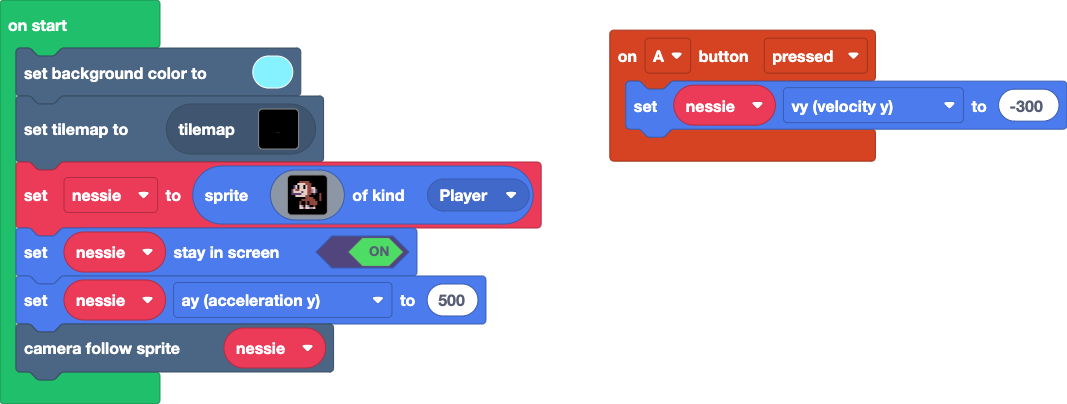
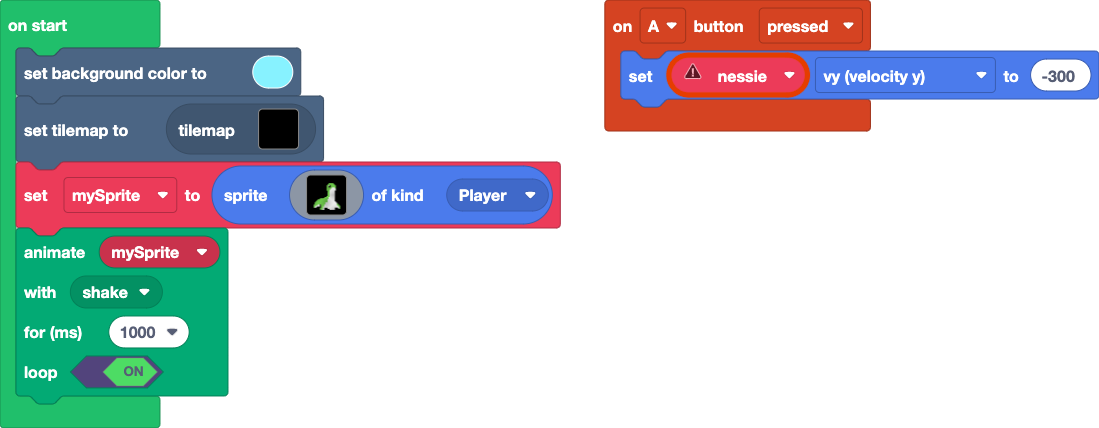
Update main.blocks, main.ts, tilemap.g.jres, tilemap.g.ts, images.g.jres, images.g.ts

diff --git a/tilemap.g.ts b/tilemap.g.ts
@@ -6,7 +6,7 @@ namespace myTiles {
     helpers._registerFactory("tilemap", function(name: string) {
         switch(helpers.stringTrim(name)) {
             case "level1":
[2 lines of base64/hex data omitted]
 ................
 ................
 ................
@@ -104,7 +104,6 @@ namespace myTiles {
 ................
 ................
 ................
-2222222222222222
 ................
 ................
 ................
@@ -167,7 +166,8 @@ namespace myTiles {
 ................
 ................
 ................
-`, [myTiles.transparency16,sprites.skillmap.islandTile1], TileScale.Sixteen);
+................
+`, [myTiles.transparency16], TileScale.Sixteen);
         }
         return null;
     })

diff --git a/images.g.ts b/images.g.ts
@@ -61,39 +61,6 @@ ddddddddddddddddddddbb111bddddddddddddddddddddddddddddddddddddd
 ddddddddddddddddddddddbbbdddddddddddddddddddddddddddddddddddddd
 ddddddddddddddddddddddddddddddddddddddddddddddddddddddddddddddd
 `;
-            case "image2":
-            case "myImage":return img`
-..............................
-..............................
-..............................
-................fffffff.......
-...............ff77777ff......
-..............ff7777777ff.....
-..............f771f77777f.....
-..............f77ff77777f.....
-..............f777771117f.....
-..............f777711111f.....
-..............f777111111f.....
-..............ff7711111ff.....
-...............f7711111f......
-...............f7711111f......
-...............f7711111f......
-..............ff7711111f......
-............fff77711111f......
-........fffff7777111111f......
-......fff77777777111111f......
-.....ff7777777771111111f......
-....ff77777777771111111ff.....
-...ff7777777777711111111ff....
-...f777777777711111111111ff...
-..ff7777777777111111111117ff..
-..f777711f77711111111111177ff.
-..f771111f777111111111111177f.
-..f711ffff771111111111111117f.
-..fffff.f7771fff1111111fff17f.
-........f7711f.fff11111f.ffff.
-........ffffff...fffffff......
-`;
             case ",xL(eOpO+":
             case "Nega Nessie":return img`
 ..............................
@@ -125,6 +92,39 @@ ddddddddddddddddddddddddddddddddddddddddddddddddddddddddddddddd
 ..f211ffff221111111111111112f.
 ..fffff.f2221fff1111111fff12f.
 ........f2211f.fff11111f.ffff.
+........ffffff...fffffff......
+`;
+            case "image2":
+            case "myImage":return img`
+..............................
+..............................
+..............................
+................fffffff.......
+...............ff77777ff......
+..............ff7777777ff.....
+..............f771f77777f.....
+..............f77ff77777f.....
+..............f777771117f.....
+..............f777711111f.....
+..............f777111111f.....
+..............ff7711111ff.....
+...............f7711111f......
+...............f7711111f......
+...............f7711111f......
+..............ff7711111f......
+............fff77711111f......
+........fffff7777111111f......
+......fff77777777111111f......
+.....ff7777777771111111f......
+....ff77777777771111111ff.....
+...ff7777777777711111111ff....
+...f777777777711111111111ff...
+..ff7777777777111111111117ff..
+..f777711f77711111111111177ff.
+..f771111f777111111111111177f.
+..f711ffff771111111111111117f.
+..fffff.f7771fff1111111fff17f.
+........f7711f.fff11111f.ffff.
 ........ffffff...fffffff......
 `;
         }

diff --git a/main.ts b/main.ts
@@ -1,10 +1,10 @@
 controller.A.onEvent(ControllerButtonEvent.Pressed, function () {
+    let nessie: Sprite = null
     nessie.vy = -300
 })
-let nessie: Sprite = null
 scene.setBackgroundColor(9)
 tiles.setCurrentTilemap(tilemap`level1`)
-let mySprite = sprites.create(assets.image`Nega Nessie`, SpriteKind.Player)
+let mySprite = sprites.create(assets.image`myImage`, SpriteKind.Player)
 animation.runMovementAnimation(
 mySprite,
 animation.animationPresets(animation.shake),
